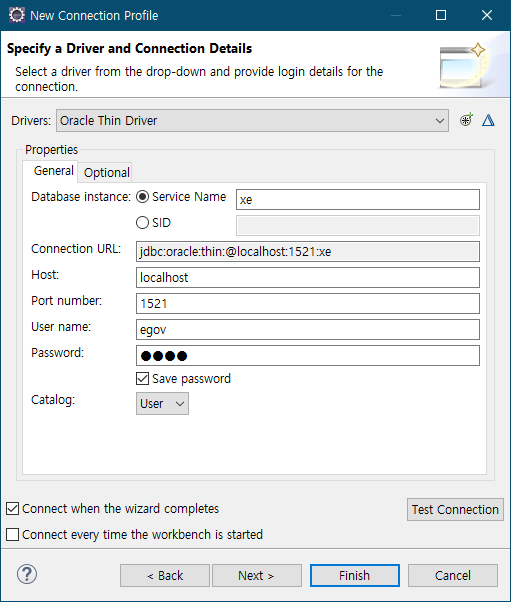
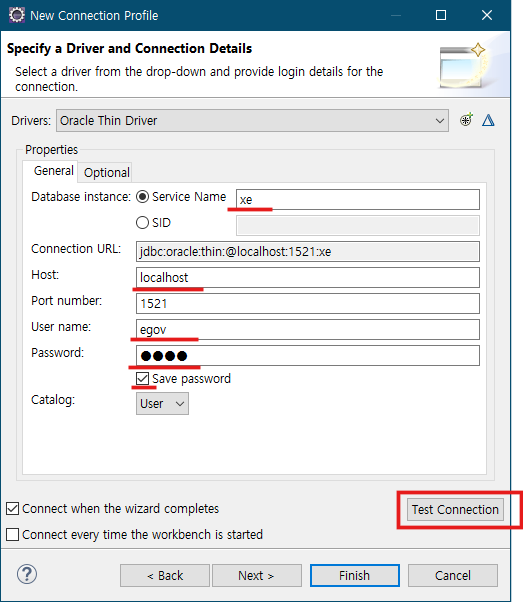
ㄷ햎

diff --git a/springboot11_egov.md b/springboot11_egov.md
@@ -1,5 +1,64 @@
 # EgovFrame
 
+### 이클립스 dataSource 지정
+
+DB connection 정보 등록
+
+<img src="./images/egov/eclipse_datasource08.png">
+
+데이터베이스 선택하고 이름 입력
+
+<img src="./images/egov/eclipse_datasource06.png">
+
+JDBC 드라이브 추가
+
+<img src="./images/egov/eclipse_datasource07.png">
+
+드라이버 선택
+
+<img src="./images/egov/eclipse_datasource02.png">
+
+드라이버(jar) 지정
+
+- 21c버전  
+  C:\app\oracle\product\21c\dbhomeXE\jdbc\lib\ojdbc8.jar  
+  C:\Users\user\.m2\repository\com\oracle\database\jdbc\ojdbc11\21.5.0.0
+- 11g버전  
+   c:\oraclexe\app\oracle\product\11.2.0\server\jdbc\lib\ojdbc6.jar
+
+<img src="./images/egov/eclipse_datasource03.png">
+
+접속정보 등록  
+<img src="./images/egov/eclipse_datasource01.png">
+
+DB 접속하고 테스트
+
+<img src="./images/egov/eclipse_datasource04.png"  style="width:600px">
+
+### server(Tomcat) 설치
+
+스프링 프로젝트는 별도의 서버가 필요함. spring boot 프로젝트는 서버가 내장되어 있음.
+
+[tomcat 9.0 download](https://tomcat.apache.org/download-90.cgi)
+
+<img src="./images/egov/tomcat_01.png" width="900">
+
+c:\eGovFrameDev-4.3.1-64bit\ 폴더에 압축해제 (하위폴더생성 선택 안함)
+
+<img src="./images/egov/tomcat_02.png" width="240">
+
+이클립스에 서버 설정
+
+<img src="./images/egov/tomcat_03.png" width="400">
+
+서버 선택
+
+<img src="./images/egov/tomcat_05.png" width="400">
+
+tomcat 폴더 지정
+
+<img src="./images/egov/tomcat_04.png" width="400">
+
 ### eGovFrame Template Porject
 
 1. Common All-in-one  
@@ -8,81 +67,125 @@
 2. project name, Group id 입력  
    <img src="./images/egov/all_02.png"  width="400">
 
-3. 데이터베이스 사용자 계정 생성
+3. properoies 파일에서 dbtyp을 오라클로 변경  
+파일위치 : src\main\resources\egovframework\egovProps\globals.properties  
+데이터베이스 기본계정은 com/com01
+
+   <img src="./images/egov/all_06.png" width="650">
+
+4. 데이터베이스 사용자 계정 생성
 
    ```sql
    ALTER SESSION SET "_ORACLE_SCRIPT"=true;
    create user com identified by com01;
-   grant resource, connect to com;
+   grant resource, connect, create view to com;
    ALTER USER com DEFAULT TABLESPACE USERS QUOTA UNLIMITED ON USERS;
    ```
 
-   <img src="./images/egov/all_04.png"  width="500">
+5. DDL, DML 스크립트 실행
 
-4. DDL, DML 스크립트 실행  
-   <img src="./images/egov/all_03.png"  width="300">
-5. 패키지 표현방식 -> 계층형  
-   <img src="./images/egov/all_05.png" width="550">
+script/ddl/oracle/com_DDL_oracle.sql 파일 실행  
+script/dml/oracle/com_DML_oracle.sql 파일 실행
 
-6. properoies 파일에서 dbtyp을 오라클로 변경  
-   <img src="./images/egov/all_06.png" width="550">
-7. 컨트롤러, 서비스, DAO, 매퍼XML 생성  
-   <img src="./images/egov/all_08.png" width="300">
+   <img src="./images/egov/all_03.png"  width="360">
 
-8. 패키지 스캔 경로 추가  
-   <img src="./images/egov/all_09.png" width="300">
+6. 브라우저 테스트
 
-9. 서비스, DAO 패키지 경로 추가(context-common.xml)  
-   <img src="./images/egov/all_10.png" width="600">
+로그인 계정 : USER/rhdxhd12 (공통12)  
+메인페이지 변경 : Globals.MainPage =/EgovContent.do
 
-10. 매퍼 XML 경로 추가(context-mapper.xml)  
-    <img src="./images/egov/all_11.png"  width="600">
+6. Exceptionresolver 빈 주석 처리(에러메시지 보이도록 함)
 
-11. 컨트롤러 패키지 경로 추가 (egov-com-servlet.xml)
-    <img src="./images/egov/all_12.png" width="700">
+<img src="./images/egov/all_13.png" width="800">
 
-12. Exceptionresolver 빈 주석 처리(에러메시지 보이도록 함)
-    <img src="./images/egov/all_13.png" width="700">
+8. error 페이지  
+   <img src="./images/egov/all_14.png" width="650">
 
-13. error 페이지  
-    <img src="./images/egov/all_14.png" width="550">
+9. 로그 레벨 제어  
+   <img src="./images/egov/all_15.png" width="800">
 
-14. 로그 레벨 제어  
-    <img src="./images/egov/all_15.png" width="500">
-15. 권한 제어
+10. 권한 제어
 
 - 권한그룹관리 : 사용자에게 권한 부여
 - 권한 계층  
-  <img src="./images/egov/all_21.png" width="500">
+  <img src="./images/egov/all_21.png" width="800">
 
   ```sql
   SELECT a.CHLDRN_ROLE as child, a.PARNTS_ROLE parent
     FROM COMTNROLES_HIERARCHY a LEFT JOIN COMTNROLES_HIERARCHY b on (a.CHLDRN_ROLE = b.PARNTS_ROLE);
-
-  SELECT a.ROLE_PTTRN url, b.AUTHOR_CODE authority
-  FROM COMTNROLEINFO a, COMTNAUTHORROLERELATE b
-  WHERE a.ROLE_CODE = b.ROLE_CODE
-  AND a.ROLE_TY = 'url' ORDER BY a.ROLE_SORT;
   ```
 
-  <img src="./images/egov/all_22.png" width="330">  
-  <img src="./images/egov/all_23.png" width="400">
+  ```sql
+    SELECT a.ROLE_PTTRN url, b.AUTHOR_CODE authority
+    FROM COMTNROLEINFO a, COMTNAUTHORROLERELATE b
+    WHERE a.ROLE_CODE = b.ROLE_CODE
+    AND a.ROLE_TY = 'url' ORDER BY a.ROLE_SORT;
+  ```
+
+  <img src="./images/egov/all_22.png" width="400">
+
+  <img src="./images/egov/all_23.png" width="500">
 
 - 롤관리
   고객관리 페이지 접근권한  
-  <img src="./images/egov/all_17.png" width="500">
+  <img src="./images/egov/all_17.png" width="700">
 
   메인화면 접근권한  
-  <img src="./images/egov/all_19.png" width="500">
+  <img src="./images/egov/all_19.png" width="700">
 
   롤 정규표현식  
   <img src="./images/egov/all_16.png" width="500">
 
 - 권한관리 : 권한에 롤을 부여  
   ROLE_USER에게 모든 접근제한 미등록, 회원관리, 고객관리, 메인페이지 권한 등록  
-  <img src="./images/egov/all_18.png" width="500">
+  <img src="./images/egov/all_18.png" width="700">
 
-  <img src="./images/egov/all_20.png" width="500">
+  <img src="./images/egov/all_20.png" width="700">
+
+### 새로운 기능 추가
+
+1. 테이블 생성
+
+   ```sql
+   create table cusomer (
+     no number primary key,
+     name varchar2(20),
+     addr varchar2(100),
+     phone varchar2(20),
+     grade number(1)
+   )
+   ```
+
+2. 패키지 생성
+
+   ```
+   com.yedam.customer.service         <-  Service, VO
+   com.yedam.customer.service.impl    <- DAO or Mapper, serviceImpl
+   com.yedam.customer.web             <- Controller
+   ```
+
+3. 패키지 표현방식 -> 계층형
+
+   <img src="./images/egov/all_05.png" width="650">
+
+4. CRUD Program  
+   mapper(xml) : /src/main/resources/egovframework/mapper  
+   view : /src/main/webapp/WEB-INF/jsp
+
+5. 컨트롤러, 서비스, DAO, 매퍼XML 생성  
+   <img src="./images/egov/all_08.png" width="300">
+
+6. 패키지 스캔 경로 추가  
+   <img src="./images/egov/all_09.png" width="300">
+
+7. 서비스, DAO 패키지 경로 추가(context-common.xml)  
+   <img src="./images/egov/all_10.png" width="600">
+
+8. 매퍼 XML 경로 추가(context-mapper.xml)  
+   <img src="./images/egov/all_11.png"  width="600">
+
+9. 컨트롤러 패키지 경로 추가 (egov-com-servlet.xml)
+   <img src="./images/egov/all_12.png" width="800">
 
 ### 공통컴포넌트 사용
 
@@ -95,19 +198,7 @@ grant resource, connect , create view to com;
 ALTER USER com DEFAULT TABLESPACE USERS QUOTA UNLIMITED ON USERS;
 ```
 
-2. 이클립스 dataSource 지정
-
-- 접속정보 등록  
-  <img src="./images/egov/eclipse_datasource01.png">
-
-- 드라이버 선택  
-  <img src="./images/egov/eclipse_datasource02.png">
-
-- 드라이버(jar) 지정  
-  <img src="./images/egov/eclipse_datasource03.png">
-
-- DB 연결하여 테스트  
-  <img src="./images/egov/eclipse_datasource04.png"  style="width:600px">
+2. 컴포넌트 선택
 
 - 컴포넌트 추가 : file-> new -> Add EgovFrame Common Compononent  
   <img src="./images/egov/egov_common01.png">
@@ -132,40 +223,6 @@ egovframework.rte.ptl : Presenation layer (화면처리)
 
 용어명 : [행정표준용어](www.adams.go.kr)를 기준으로 명명  
 Java Coding Convention : [오라클 코딩 규칙](https://www.oracle.com/java/technologies/javase/codeconventions-contents.html)
-
-### 컴포넌트 추가
-
-파일위치 : src\main\resources\egovframework\egovProps\globals.properties  
-데이터베이스 기본계정은 com/com01
-
-Globals.MainPage =/EgovContent.do
-
-### 브라우저 테스트
-
-로그인 계정 : USER/rhdxhd12
-
-### 새로운 기능 추가
-
-1. 테이블 생성
-
-   ```sql
-   create table todo (
-     no number primary key,
-     title varchar2(100),
-     complete char(1) default 'n'
-   )
-   ```
-
-2. 패키지 생성
-<pre>
-egovframe.tdo.service      : service, vo,
-            .service.impl : dao, serviceImpl
-            .web          : controller
-</pre>
-
-3. CRUD Program  
-   mapper(xml) : /src/main/resources/egovframework/mapper  
-   view : /egovweb/src/main/webapp/WEB-INF/jsp
 
 ## MyBatis 적용
 
